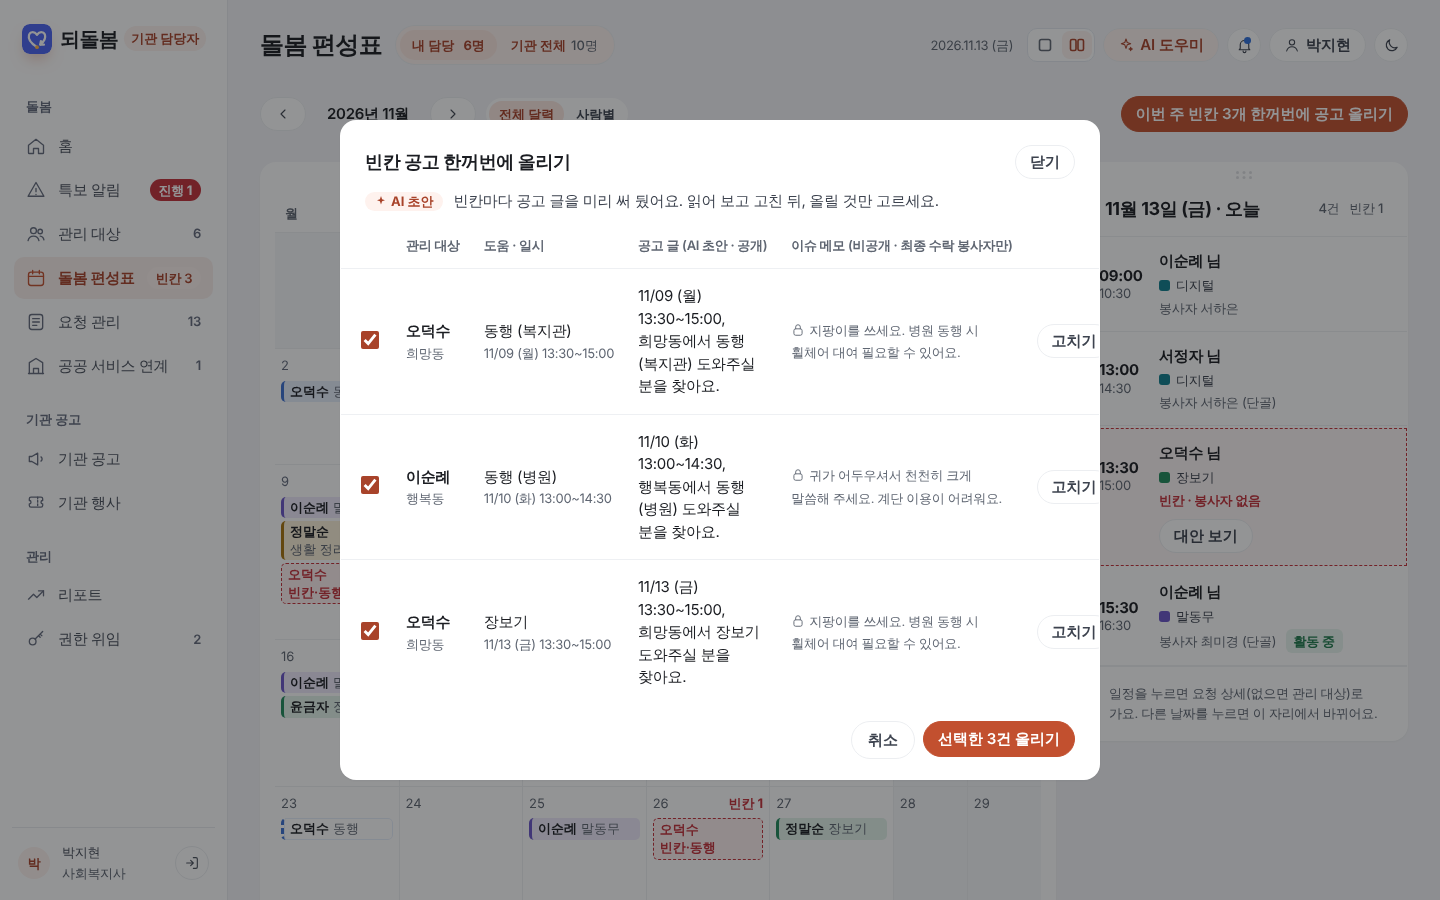
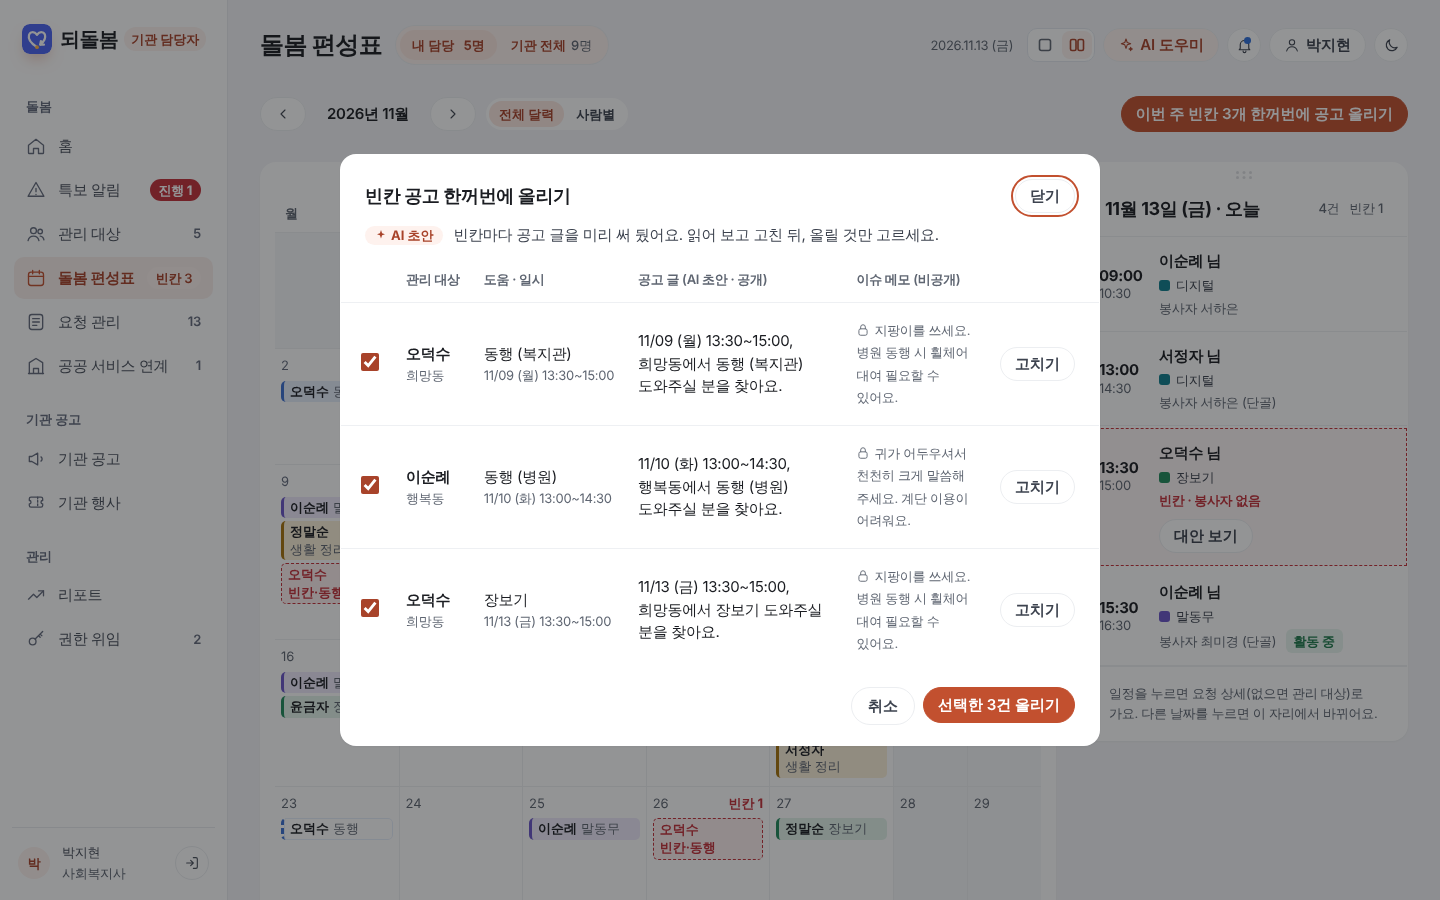
담당자 11판 QA 1회차: P1·P2 25건 수정(입력 검증, 대신 요청 생성, 행사 id 연결, 편성표 칩·빈칸, 2분할 카드 표, 접근성 등)
Claude-Session: https://claude.ai/code/session_012jyk6pXjTGjjika6jrUaJd

diff --git a/docs/prototypes/proto-2026-11-20-기관담당자-PC-11.html b/docs/prototypes/proto-2026-11-20-기관담당자-PC-11.html
@@ -4626,7 +4626,7 @@ const LAYERS={
    stepFoot(e?'저장':'등록하기',`saveCare(${e?`'${e.id}'`:''})`,!!e),true)},
  /* O-SCHED-02 빈칸 공고 한꺼번에 */
  bulk:()=>{const G=gapList(),off=F('bo',[]),n=G.filter(x=>!off.includes(x.id+x.k)).length,ed=F('bedit','');
-  return modal('빈칸 공고 한꺼번에 올리기',`<p class="rowx" style="margin-bottom:12px"><span class="ai-tag" style="margin:0">AI 초안</span>빈칸마다 공고 글을 미리 써 뒀어요. 읽어 보고 고친 뒤, 올릴 것만 고르세요.</p><div class="tw"><table class="bulkt"><thead><tr><th style="width:44px"></th><th>관리 대상</th><th>도움 · 일시</th><th>공고 글 (AI 초안 · 공개)</th><th title="최종 수락된 봉사자에게만 보여요">이슈 메모 (비공개 · 최종 수락 봉사자만)</th><th></th></tr></thead><tbody>
+  return modal('빈칸 공고 한꺼번에 올리기',`<p class="rowx" style="margin-bottom:12px"><span class="ai-tag" style="margin:0">AI 초안</span>빈칸마다 공고 글을 미리 써 뒀어요. 읽어 보고 고친 뒤, 올릴 것만 고르세요.</p><div class="tw"><table class="bulkt"><thead><tr><th style="width:44px"></th><th>관리 대상</th><th>도움 · 일시</th><th>공고 글 (AI 초안 · 공개)</th><th title="최종 수락된 봉사자에게만 보여요">이슈 메모 (비공개)</th><th></th></tr></thead><tbody>
    ${G.map(x=>{const e=EL(x.id),key=x.id+x.k,on=!off.includes(key),dr=bulkDraft(x),chg=S.f['bd_'+key]!==undefined||S.f['bi_'+key]!==undefined;return `<tr class="${ed===key?'edon':''}"><td><input type="checkbox" ${on?'checked':''} aria-label="${e.n} ${x.c.gap} 올리기" style="width:18px;height:18px;accent-color:var(--acc-ink)" onchange="bulkT('${key}')"></td><td style="white-space:nowrap"><b style="font-weight:600">${e.n}</b><div class="muted small">${e.dong}</div></td><td style="white-space:nowrap">${x.c.gap}<div class="muted small tn">${DAYS[Math.floor(x.k/2)].split(' ')[1]} (${DAYS[Math.floor(x.k/2)].split(' ')[0]}) ${gapTime(x)}</div></td><td class="drc"><span>${esc(dr)}</span></td><td class="bimemo12"><span class="muted small">${icon('lock')}${esc(bulkIssue(x))}</span></td><td class="act">${chg?'<span class="tag" style="margin-right:6px">고침</span>':''}<button class="btn sm" type="button" aria-expanded="${ed===key}" onclick="S.f.bedit='${ed===key?'':key}';drawLayer()">${ed===key?'접기':'고치기'}</button></td></tr>
      ${ed===key?`<tr class="edrow"><td></td><td colspan="5"><div class="field"><label for="bd${key}">공고 글 <span class="note">공개돼요 · 건강·도구 정보는 이슈 메모에</span></label><textarea id="bd${key}" class="sm" oninput="S.f['bd_${key}']=this.value">${esc(dr)}</textarea></div><div class="field"><label for="bi${key}">이슈 메모 <span class="note">최종 수락된 봉사자에게만 보여요</span></label><input id="bi${key}" type="text" value="${esc(bulkIssue(x))}" oninput="S.f['bi_${key}']=this.value"></div></td></tr>`:''}`}).join('')}</tbody></table></div>`,
    `<button class="btn" type="button" onclick="closeLayer()">취소</button><button class="btn primary" type="button" ${n?'':'disabled'} onclick="bulkGo()">선택한 ${n}건 올리기</button>`)},
@@ -5778,7 +5778,7 @@ html body .btn.danger-t{color:var(--neg)!important}
 .ro12 .sp{display:grid;gap:2px;min-width:0}
 html body #main [aria-disabled="true"][disabled]{opacity:.45;cursor:not-allowed}
 /* 18 빈칸 한꺼번에: 이슈 메모는 공개 글과 따로 */
-.bimemo12{max-width:260px;min-width:200px}
+.bimemo12{max-width:210px}
 .only12{display:flex;align-items:center;gap:6px;color:var(--ink-3)}.only12 svg.i{width:14px;height:14px;flex:none}
 .bimemo12 svg.i{width:14px;height:14px;vertical-align:-2px;margin-right:4px}
 /* 23 홈 '지금' 점: 모두 지났을 때도 카드 테두리에 걸치지 않게 */

diff --git a/docs/qa/2026-11-23-수정-1회차.md b/docs/qa/2026-11-23-수정-1회차.md
@@ -1,0 +1,99 @@
+# 기관 담당자 PC 11판 — 수정 1회차 (2026-11-23)
+
+- 대상: `docs/prototypes/proto-2026-11-20-기관담당자-PC-11.html` (제자리 수정, 커밋 안 함)
+- 근거: `2026-11-23-요구사항-검증-1차.md`, `2026-11-23-UIUX-코드-감사-1차.md`, 대화 요구사항(C01~C31·M01~M17)
+- 수정 방법
+  - 데이터·로직 버그는 원본 코드에서 고침: 편성 자료, 요청 상세, 대신 요청, 행사, 등록 폼, 빈칸 공고, `fld()`, `confirmBox()`.
+  - 화면·공통 동작은 새 층 `<style id="qa1">` / `<script id="qa1-js">`(파일 맨 끝)에 넣음.
+- 지킨 것
+  - 코랄 강조색, Pretendard, 셀렉트 상자, 그림 없음, 가중치 없음
+  - v11 끌기 줄 배치, 1단/2단, 모바일 상단 줄, 탭 모양
+  - '지금'은 반짝이는 점만
+- 하지 않은 것
+  - 예전 앱 기능 약 30건 (범위 결정 대기)
+  - 이관 vs 담당 바꾸기
+- 수정 중에 받은 사용자 결정 2건(D1, D2)도 반영함. 결정이 나기 전까지 실명 vs 별칭 정책은 건드리지 않았음.
+- 검증 방법
+  - Playwright Chromium. 브라우저는 한 번에 하나만 띄움.
+  - 화면 폭: 1440×900, 1280×800, 1280×2000(끌기), 390×844. deviceScaleFactor 1.
+  - 외부 글꼴 요청은 막았음. 글꼴 실패는 예상된 결과.
+  - 실제로 클릭·입력·키보드 조작을 했음. 끌기는 `page.mouse` down → 단계별 move → up으로 함.
+- 검증 스크립트(scratchpad, 보관용 아님)
+  - `/tmp/claude-0/-home-user/7cee04ab-01a2-5dc3-95c0-b531f7de352c/scratchpad/p11/verify.js`
+  - `smoke.js`
+  - `audit.js`
+
+## 요약
+- 기능 검증 **74개 확인 모두 PASS**, FAIL 0. 화면 코드 오류(`pageerror`)는 0건.
+- 회귀 확인
+  - 33개 경로를 1440·1280·390 폭으로 열었음.
+  - 가로 넘침은 모두 0. 1차에는 390의 `dlg/staff`(권한 위임)가 227px 넘쳤는데, 이번에 함께 고쳤음.
+- 글자 감사(11판 원본과 비교)
+  - 문제 건수: 91 → 77
+  - 원본에 없던 새 지적 2종
+    - 편성표 달력 카드와 옆 패널의 높이가 다름(의도한 배치)
+    - '마지막 안부' 메모를 15px로 올렸는데도 본문 크기 지적이 남음(아래 '회귀 확인' 참고)
+  - 말줄임 지적: 56 → 37
+
+## 항목별 결과
+
+| 번호 | 원인 | 수정 | 검증 | 스크린샷 |
+|---|---|---|---|---|
+| 1 | `vSched()`에 회의(M06)에서 지운 접는 카드 '요일별 편성 · 이번 주 봉사자'가 남아 있었음 | 카드와, 카드에 쓰던 계산을 지웠음 | PASS: 월·사람별 두 보기 모두 글자가 없음 | fix1-01-sched-1440 |
+| 2 | 카드 안 표에 `min-width:720/880px`가 걸려 있어, 2분할(약 484px)과 모바일에서 표가 가로로 넘치고 버튼이 숨었음 | qa1에 `@container card (max-width:640px)`와 `@media (max-width:600px)`를 넣었음. 머리줄을 숨기고 표 줄을 카드형으로 바꿈: 1줄 = 대상 + 행동 버튼, 2줄 = 할 일, 3줄 = 일시·기한. 급한 줄은 줄 전체를 칠함 | PASS: 실제 마우스로 '오늘 처리할 일'을 '이번 주 현황' 오른쪽에 놓음 → 같은 줄 2분할(484px). 줄이 flex로 바뀌고, 버튼이 모두 카드 안에 있고, 넘치는 요소 0. 배치도 저장됨. 390에서는 숨은 가로 스크롤 없이 버튼이 보임 (U05) | fix1-02-half-card-1280, fix1-02-home-390 |
+| 3 | 칩이 '빈칸 이름 분류'를 한 줄에 몰아 써서 1280에서 "이순례 말…"처럼 잘렸음. 옆 패널은 버튼 칸 때문에 문구가 끊겼음 | 칩을 바꿈: 1줄 = 이름(굵게), 분류는 작게 옆에 두고 자리가 없으면 다음 줄로. `title`에 시각·이름·분류·봉사자 전체 글을 넣음. 옆 패널은 좁으면(≤360px) 버튼을 둘째 줄로 내리고 `flag-neg`는 줄바꿈 금지 | PASS: 1440·1280 칩 32개 모두 잘림 0, title 있음. '빈칸 · 봉사자 없음'은 한 줄(높이 16px) | fix1-03-sched-1280, fix1-01-sched-1440 |
+| 4 | 저장 버튼이 `closeLayer();toast('저장했어요')`뿐이었고, 확인하는 코드가 없었음 | 새 `saveCare()`를 만듦. 필수 칸: 이름·동·연락 방법(본인 전화나 가족 연락처 중 하나, 형식 확인). 동의 체크 '본인·보호자 동의를 받았어요'(필수)를 추가함. 오류는 칸 아래 문장 + `aria-invalid`로 보여 주고, 그 칸이 있는 단계로 옮겨 첫 오류 칸에 초점을 둠. 오류가 있으면 성공 토스트를 띄우지 않음. 맞으면 실제로 등록·수정함(등록 뒤 상세로 이동). 칸 구성은 그대로 둠 | PASS: 빈 폼 → 4칸에 오류 + 초점 `cfn` + 토스트 없음. 동의만 빠지면 2단계로 옮겨 초점 `cfok`. 다 채우면 "김순자 님을 등록했어요" → `#care/e10`. 수정 폼은 기존 값과 동의 체크가 채워져 있고, 이름을 비우면 막힘 | fix1-04-care-new-errors, fix1-04-care-consent-error |
+| 5 | 수락 단계에 '대신 최종 수락'·'전화 걸기'만 있었음 | 버튼 '대신 거절 (다른 봉사자 찾기)'(→ 요청 대기, 거절한 사람 제외, 사유)과 '요청 취소'(→ 완료 칸에 '요청 취소', 사유)를 추가함. 둘 다 위험 확인 창이고 초점은 '취소'. 지원자 0명인 상태 화면도 새로 넣음 | PASS: 창이 뜨면 초점 `dlgcancel`, 바로 Enter를 눌러도 상태가 그대로. 거절하면 r2가 `st 0`·봉사자 없음, 취소하면 r6이 '요청 취소' | fix1-05-decline-confirm |
+| 6 | AI 문장은 `NL.length`(5)를 쓰고, 나머지는 `needN()`(4)을 썼음 | 문장도 `nN`(= needN)을 쓰게 함. "오늘 이미 확인한 1명은 빼고 셌어요"를 덧붙임 | PASS: 문장·제목·숫자 카드·홈 띠·홈 링크 모두 4 | fix1-06-alerts-count |
+| 7 | `EXTRA[i]`·`EV_STATS[i]`를 순번으로 붙였음. '수정'은 빈 새 폼을 열었음 | `EVENTS`에 `id·place·who·desc·save·ask`를 넣고, 상세·카드 모두 `evOf(id)`로 찾게 함. `eventForm(id)`가 값을 채워 열고 `saveEvent(id)`가 고친 내용을 저장함. 새 폼은 빈 칸. 확인: 제목(필수, 40자), 날짜(필수), 시간 형식, 링크는 `https://`만 (칸 아래 문장) | PASS: 빈 제목 → 오류 + 초점 `evt`. `http://` → "보안 연결 주소(https://)만" + 초점 `evu`. 새 행사를 올린 뒤에도 음악회 상세는 오케스트라 설명·관심 23 그대로. 수정 폼에 제목·날짜·시간·링크·장소가 채워짐 → 저장하면 카드 제목이 바뀜 | fix1-07-event-https-error, fix1-07-event-edit-prefilled |
+| 8 | 5판 `.toast{color:#14171D}`(어두운 테마) 위에 9판의 어두운 바탕이 덮였음 | qa1에서 `.toast{color:#fff!important}`(밝게·어둡게·시스템 어둡게 모두) | PASS: 어두운 테마 대비 16.95:1 | fix1-08-dark-toast |
+| 9 | 직접 쓰기는 제목만 확인했고, 올린 요청이 자료에 들어가지 않았음 | `postReq()`·`postReqAI()`가 카테고리·제목·내용(10자 이상)·날짜(월/일 → 요일 붙임)·시간(시작 < 끝)을 칸 아래 문장으로 확인함. 맞으면 `addReq()`로 REQS에 '요청 대기'를 넣고 그 상세(`#req/rN`)로 감. 취소 버튼은 `go('req')` | PASS: 빈 칸 → 4칸 오류 + 초점 `nrti` + 주소 그대로. 틀린 값마다 맞는 문장이 나옴. 올리면 `#req/r15`, '11/24 (화)'·'14:00~16:00', 보드 '요청 대기·수락' 4→5. AI 정리 쪽은 틀린 시간에서 막히고 → 고치면 `#req/r16` | fix1-09-newreq-errors, fix1-09-newreq-detail |
+| 10 | 빈칸이 왼쪽 실선이었음 | 빨간 점선 1.5px: 달력 칩·범례·옆 패널 줄·홈 '빈칸, 대안 보기'·관리 대상 이번 주 돌봄 | PASS: 칩·패널·범례·홈 모두 `dashed` | fix1-03-sched-1280 |
+| 11 | 옆 패널 줄에 링크가 없었음 | `reqOfSlot()`가 편성 칸과 같은 요청을 찾음(편성 칸의 `r`, 없으면 대상+날짜+분류로). 줄을 누르면 요청 상세, 없으면 관리 대상으로 감. 이름은 키보드용 링크 | PASS: 13일 15:30 → `#req/r9`. 12일 09:00(요청 없음) → `#care/e1` | — |
+| 12 | v11 `#main .tabs>.on` 규칙이 `.kf10` 규칙보다 강했음 | qa1에서 `#main .toolbar.kf10 .tabs>button.on`을 흰 면 + 코랄 테두리로 | PASS: 바탕 흰색, `inset 1.5px` 코랄 | fix1-12-posts-filter |
+| 13 | `mark()`가 render·창 크기 변경 때만 돌았음. AI 도우미가 열리면 본문만 좁아짐 | qa1이 `#main`의 ResizeObserver, `drawAib` 감싸기(350ms 뒤 한 번 더), render 뒤에 다시 잼 | PASS: 1280에서 AI 도우미를 연 뒤 보드 1000/606, `pan9`, 빈 곳을 끌면 `scrollLeft` 200. 닫으면 다시 잼 | fix1-13-board-ai-pan |
+| 14 | 띠는 시작 위치에서 놓을 곳이 없어 dragover를 받지 않아 끌기가 바로 취소됐음 | 손잡이 끌기 중에는 본문 어디서나 `dragover`를 받음. 놓을 곳이 없으면 그대로 둠 | PASS(실제 마우스): 특보 띠 → '오늘 처리할 일' 줄 아래. 방문 주의사항 → 맨 위. 저장됨 | fix1-14-band-moved |
+| 15 | 1280 홈은 CSS로 1단인데, 판정이 `m-narrow`(본문 940px 미만)만 봤음 | `segFix()`를 추가함: 2단을 골랐어도 실제로 나란히 놓인 줄이 없으면 자동 1단으로 봄. 2단 버튼을 흐리게(.38) 하고 `aria-pressed=false`, 안내 '공간이 좁아 한 칸으로 보는 중' | PASS: 1280 홈은 자동(2단 흐림·안내). 편성표처럼 실제로 나란한 화면은 2단이 켜짐 | fix1-15-seg-auto |
+| 16 | `lim('hT',TT,4)` 고정이라 수락 2건이 빠졌음 | 고른 칩 기준으로 5줄 + 'N건 더 보기'(제자리에서 펼침). 필터 결과가 0건이면 이유 + '필터 풀기' | PASS: 제목 수 = 펼친 뒤 줄 수. 칩 '수락 3' → 3줄 | fix1-02-half-card-1280 |
+| 17 | r9(11/13 15:30)가 편성 자료에 없었음. 특보 배지는 `'진행 1'` 고정 문자열이었음 | SCHED e1에 `{st:15.5,du:1,live:1,r:'r9'}`를 넣고 `evs()`가 칸별 시각을 쓰게 함. r4 시각을 편성 칸(16:00)에 맞춤. VOLS(봉사자 현황)를 최미경 활동 중으로 고침. W_OK 22 + 그래프 문구를 자료에서 계산. 배지는 `WX.filter(mine)`. 빈칸 배지에 '이번 주' 툴팁 | PASS: 홈 오늘 일정 '15:30 이순례 … 활동 중', 편성표 13일에 15:30. 특보를 끄면 배지가 사라짐. 교차 확인: 오늘 남은 일 6 = 제목 6, 사이드바 요청 13 = 탭 6+7, 빈칸 3 = 카드·한꺼번에 버튼, 이번 주 돌봄 14 = 편성표 9~13일 합 | — |
+| 18 | 초안 시각이 고정(14:00~16:00)이었고, 이슈 메모가 공고 글과 같은 칸에 있었음 | `gapTime()`(빈칸 실제 시각)을 씀. 이슈 메모를 '이슈 메모 (비공개)' 칸으로 따로 뺌 | PASS: 3건 모두 시각 = 빈칸 시각(예 13:30~15:00). 공개 글에 건강·도구 정보 없음 | fix1-18-bulk |
+| 19 | 남의 담당 대상 요청에 조작이 열려 있었음 | `reqDetailRO()`가 같은 화면에서 정하기·채팅·수락·일지 확인을 막고, 안내 '담당 박지현이 아니에요 · 보기만 가능' + 안부 기록 버튼을 둠. 채팅 상대 탭은 보기용으로 남김 | PASS: r5·r12 막힘, 안부 기록 창은 열림. 내 담당 r1은 그대로 조작 가능 | fix1-19-req-r5-readonly |
+| 20 | 사람별 빈 화면에 '내 담당' 이름 칩이 있었음 | 칩을 지우고 검색 안내 + '이름 검색칸으로' 버튼만 둠. 입력하면 제안 목록이 나옴 | PASS: 칩 0, '윤' → 윤금자 제안 | fix1-20-sched-person |
+| 21 | `reqActBtn` 글자가 '전화 확인'이었음 | '대신 최종 수락' | PASS | fix1-02-half-card-1280 |
+| 22 | '마지막 안부' 칸이 fixed 표의 96px 칸이었음. 모바일 탭 부제는 grid라 두 줄이 됐음 | 칸 너비 220px. 1줄 = 날짜·담당자(줄바꿈 금지), 2줄 = 결과·메모(2줄까지, 전체는 title). 390 폭: 달력 '+N'(글자 '건 더' 숨김), 도구 줄을 감쌈, 요청 탭 부제 '처리할 일' 숨김, 넘치는 탭·세그먼트는 오른쪽 흐림 | PASS: 5줄 모두 날짜 한 줄, 메모 2줄 이하. 390 편성표·요청 탭 잘림 0 | fix1-22-alerts-lastcheck, fix1-22-sched-390, fix1-22-req-390, fix1-22-alerts-390 |
+| 23 | 접근성·화면 다듬기 묶음 | 아래 9가지 | 아래 참고 | 아래 참고 |
+| 24 | 4번째 숫자 카드가 '내 담당 관리 대상'이었음 (HOME-19 비고는 '위임 받은 분') | '위임 받은 분' = `SE().filter(canReq)`. 누르면 관리 대상 '위임 받은 분' 필터 | PASS: 4명 → `#care` + ep='위임 받은 분' | fix1-02-half-card-1280 |
+| 25 | 제목이 10판이었고, `toggleTheme`이 두 번 정의돼 있었음 | 제목 11판, 함수 하나만 남김 | PASS | — |
+| D1 (사용자 결정) | 홈 '먼저 살펴볼 분' 줄이 리포트로 갔음 | 줄을 누르면 `#care/{id}`. 카드 아래 '리포트' 링크와 상세의 '리포트에서 보기'는 그대로 리포트. 다른 화면에서 같은 줄을 찾아봤는데 리포트 화면 안의 대상 고르기만 있어 그대로 둠 | PASS: 줄 → `#care/e4`, 링크 → `#report` | — |
+| D2 (사용자 결정) | — | 실명·연락처·주소 칸은 그대로 둠. 필수 칸 이름은 '이름'('이름을 적어 주세요'). 이름 칸 아래에 '담당자만 볼 수 있어요' 한 줄을 넣음 | PASS | fix1-D2-care-form-name |
+
+### 23 세부
+
+| 하위 항목 | 수정 | 검증 |
+|---|---|---|
+| 보조 글자 대비 | `--ink-4`·`--side-mute`를 `#80879A`에서 `#646B7D`로. 머리 날짜는 `--ink-3` | PASS: 흰 바탕 5.33:1 |
+| 서랍·창 초점 | 연 요소를 기억하고, 닫으면 그 요소(다시 그려졌으면 이름이 같은 요소)로 되돌림. Tab은 창·모바일 메뉴 안에서만 돎. Esc는 기존대로 | PASS: 담당자 정보에서 Tab을 40번 눌러도 서랍 안. Esc → '박지현' 버튼으로 돌아옴 |
+| 위험 확인 창 | `confirmBox`가 `danger`면 '취소'(`#dlgcancel`)에 초점 | PASS: 대신 거절·요청 취소·단골 해지 |
+| 라벨 | `fld()`가 id를 자동으로 만들어 `label for`로 이음 | PASS: 등록 폼 라벨 12개, 끊긴 연결 0 |
+| 탭 ←/→ | 옆 탭을 누르고 초점도 그 탭으로 옮김. 켜진 탭만 tabindex 0 | PASS: 기관 공고 '전체'에서 → → '봉사자 모집' |
+| 모바일 머리 | 머리 도구의 알림·밝기·이름을 숨김(위쪽 줄에 알림, 담당자 정보에 밝기). 여백 줄임 | PASS: 보이는 알림 버튼 1개 |
+| 편성표 윗선 | `.dayp12`에 남아 있던 `top:16px`을 없앰 | PASS: 162/162 |
+| '지금' 점 | 지금 하는 일(r9) 앞에 놓임. 다 지났을 때는 `end12`로 카드 아래 경계에 걸치지 않게 | PASS: 카드 아래와 53px 떨어짐 |
+| 빈 상태 | 이유 + 필터 풀기·다음 행동을 넣음: 관리 대상, 요청 목록, 공고 신청, 기관 공고 표, 알림, 홈 할 일 | PASS: 관리 대상 '없는이름' → '필터 풀기' → 목록이 돌아옴 |
+
+## 회귀 확인
+- **경로 33개 × 3폭**(home ~ noti)
+  - 가로 넘침 0, `pageerror` 0.
+  - 콘솔 오류는 막아 둔 외부 글꼴 4건뿐.
+- **끌기 배치(실제 마우스)**
+  - 2분할로 놓기 → 저장, 띠 옮기기, 방문 주의사항 맨 위로: 모두 됨.
+  - 키보드·되돌리기는 v11 코드를 그대로 써서 고치지 않았음.
+- **글자 감사(1440·1280, 화면·서랍 30곳)**: 원본 대비 새로 생긴 것
+  - 편성표 줄의 카드 높이가 다름: 달력과 옆 패널. 의도한 배치.
+  - '마지막 안부' 메모: 15px로 올렸는데도 감사가 계속 지적함. 감사 기준은 본문 14.5px.
+
+## 남은 점 / 확인 필요
+- **글꼴**: 샌드박스에서 외부 글꼴을 받지 못해 대체 글꼴로 확인했음. 실제 Pretendard에서 칩 줄바꿈 위치가 조금 달라질 수 있음.
+- **임시 동작**: 새로 등록한 관리 대상과 새로 올린 요청·행사는 브라우저 메모리에만 있음. 새로고침하면 사라짐(예시 데이터).
+- **'연락 방법'의 뜻**: 칸 구성은 바꾸지 않고, "본인 전화 또는 가족 연락처 중 하나"로 해석했음. 정책이 정해지면 문구를 맞춰야 함.
+- **1280 '먼저 살펴볼 분'**: 1400px 이하 한 줄 띠 모양(HOME-17)은 이번 범위가 아니라 그대로 둠.
